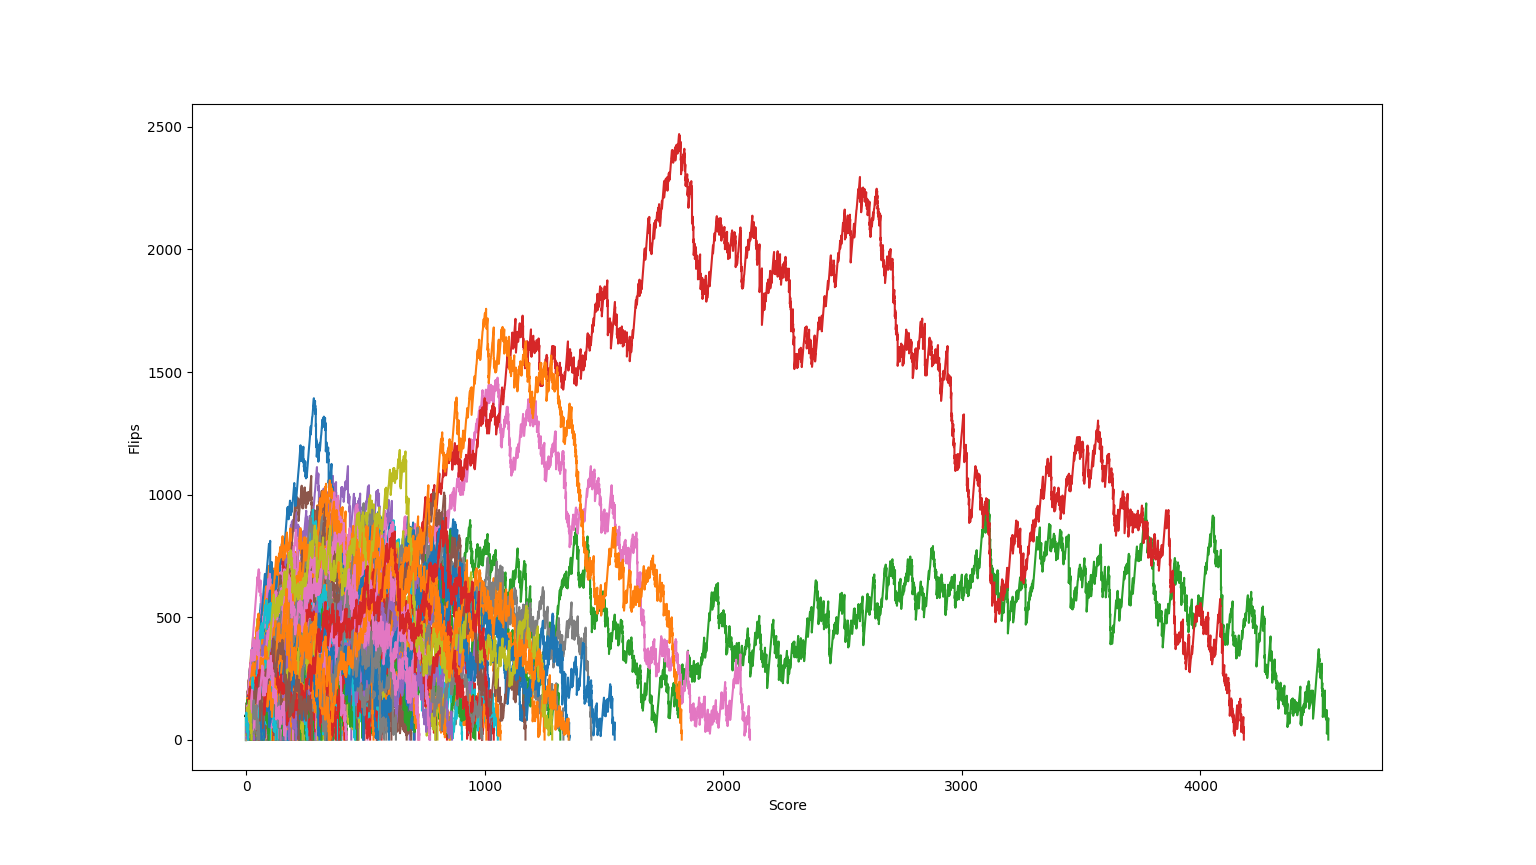
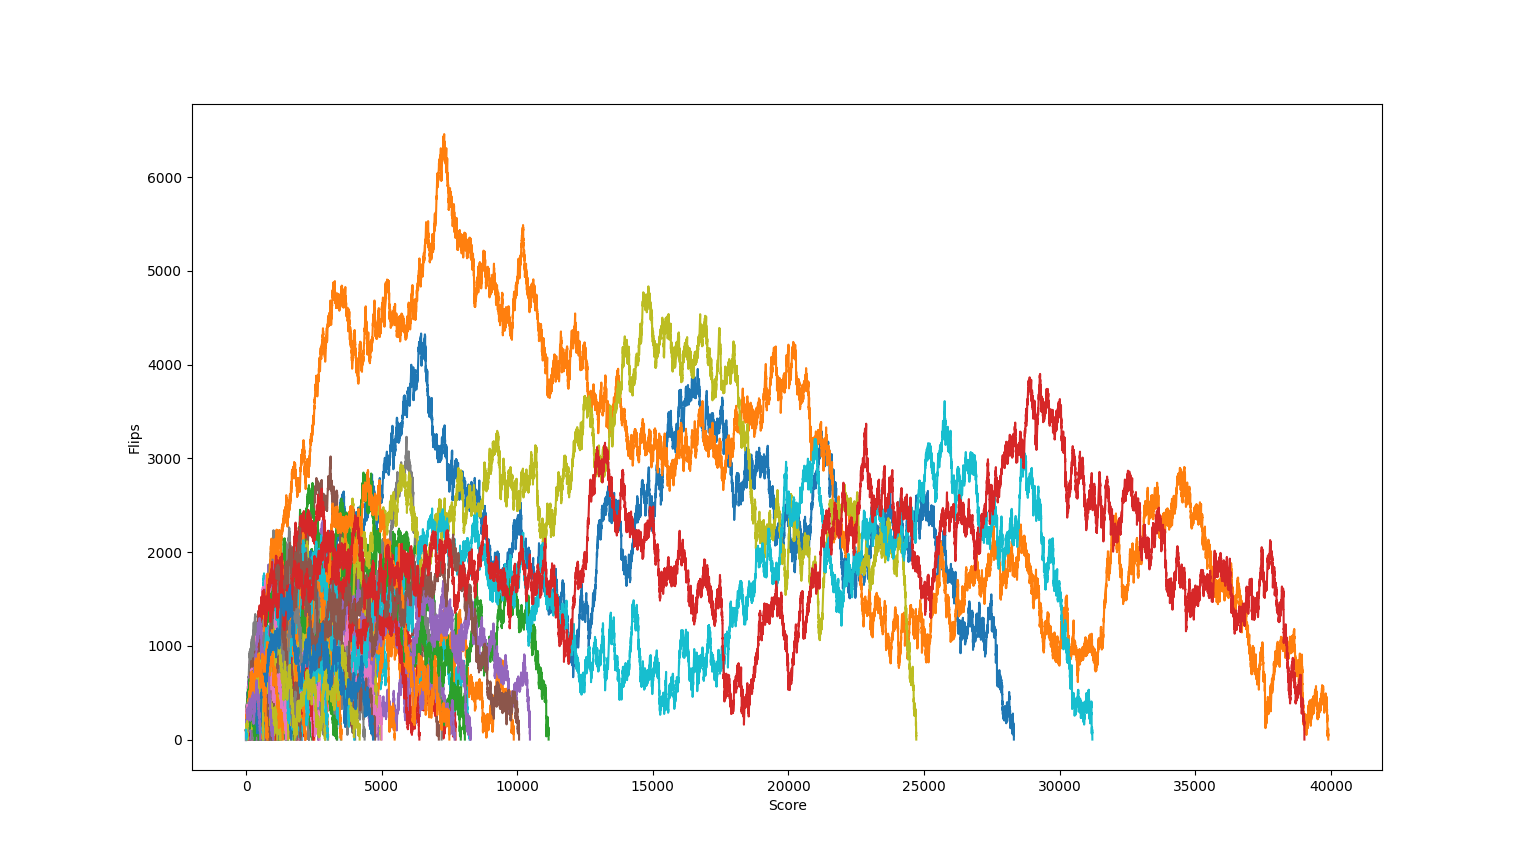
Testing flipping utility

diff --git a/strategist.py b/strategist.py
@@ -1,3 +1,5 @@
+fudge_util = 4 # by artificially increasing the expected utility of flipping, we seem to do much better on the best runs
+
 def p_fair(h,t):
 	# Baysian probability of a fair blob given number of heads and tails
 	return (0.5**h*0.5**t)/(0.5**h*0.5**t + 0.75**h*0.25**t)
@@ -12,7 +14,7 @@ def E_flip(h,t):
 	p = p_fair(h,t)
 	p_head = 0.5*p + 0.75*(1-p)
 	p_tail = 1 - p_head
-	return 1 + (E_guess(h+1,t)*p_head + E_guess(h,t+1)*p_tail - E_guess(h,t))
+	return (E_guess(h+1,t)*p_head + E_guess(h,t+1)*p_tail - E_guess(h,t)) - 1 + fudge_util
 
 if __name__ == "__main__":
 

diff --git a/plot_n_sims.py b/plot_n_sims.py
@@ -8,8 +8,11 @@ if __name__ == "__main__":
 	n = int(sys.argv[1])
 
 	results = [run_sim(verbose = False, keep_list = True) for _ in range(n)]
-	max_score = max([x[0] for x in results])
+	scores = [x[0] for x in results]
+	max_score = max(scores)
 	print("The max score was", max_score)
+	print("The average score was", int(np.mean(scores)), "+-", int(np.std(scores)))
+
 
 	for i in range(n):
 		plt.plot(results[i][2], results[i][1])
